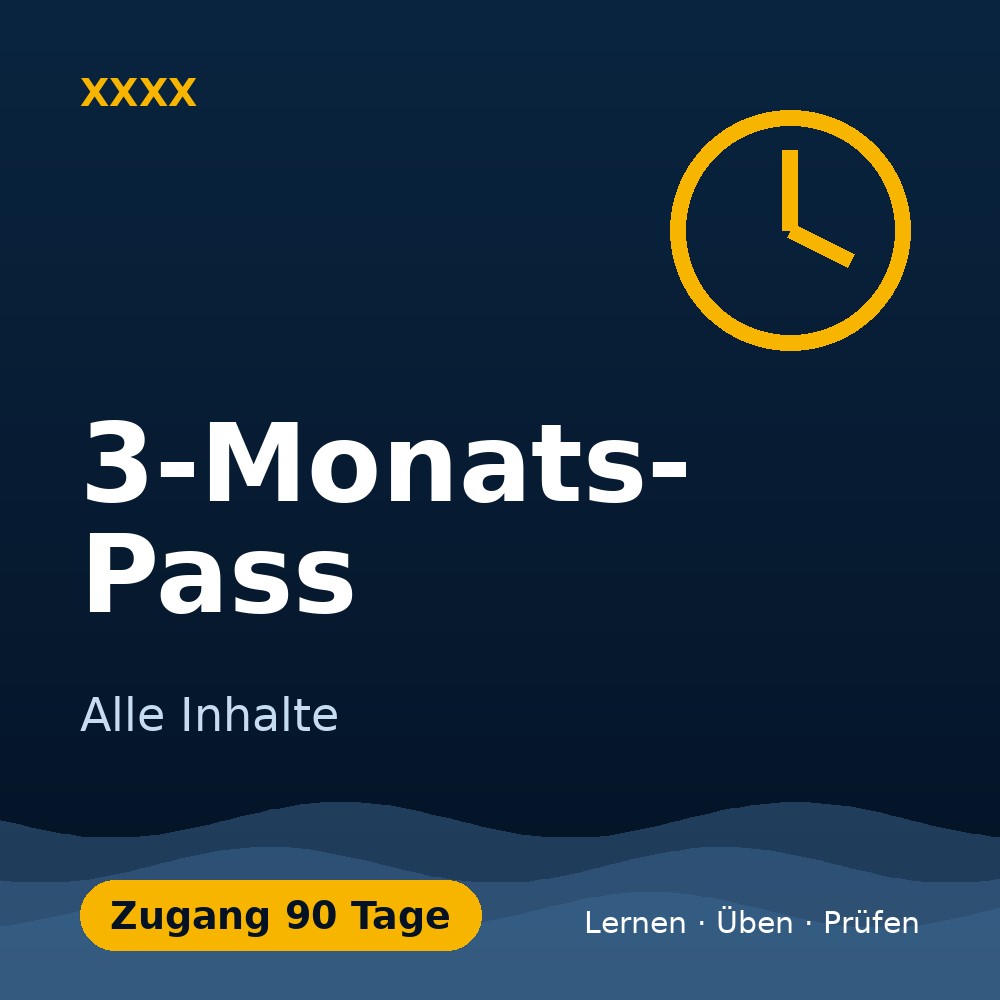
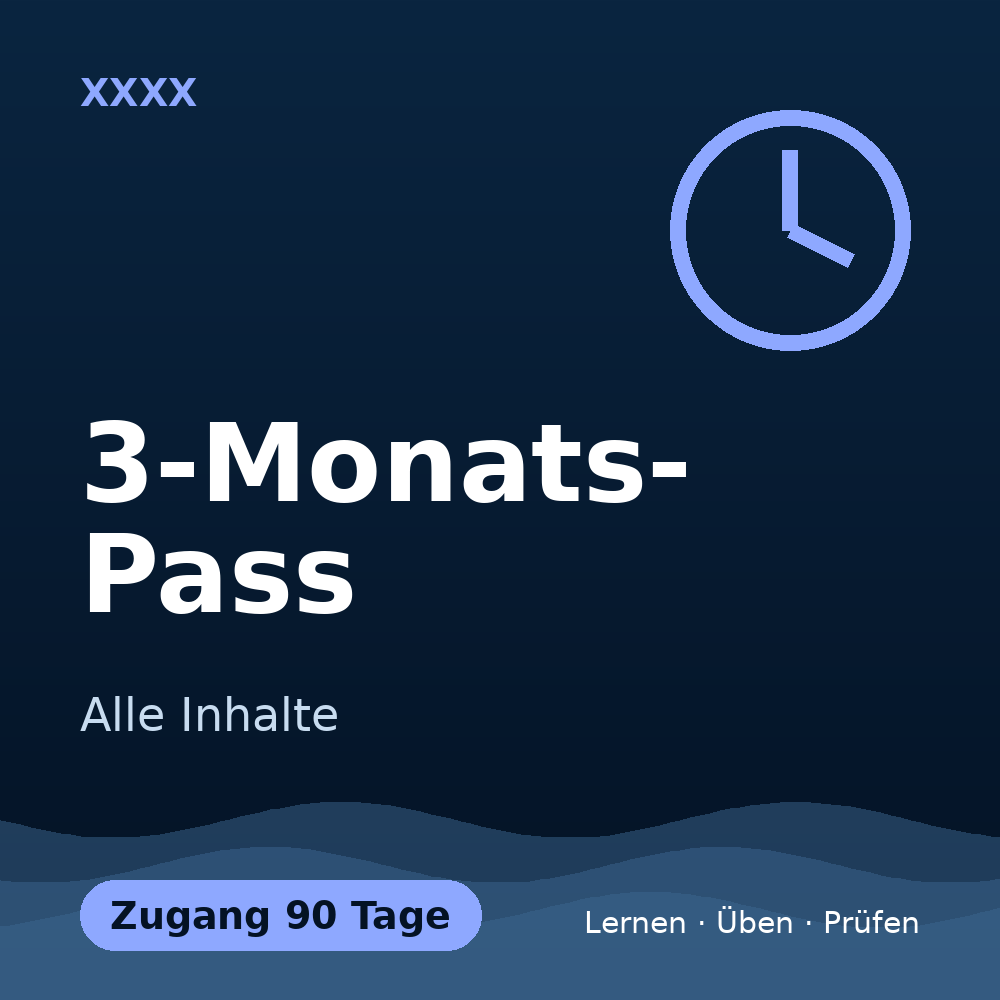
Produktbilder: restliches Gelb durch Periwinkle ersetzt
3-Monats-Pass, Simulator 3 Monate und Familien-Flotte (3 Bilder) neu erzeugt;
Gelb bleibt den Aktions-Buttons vorbehalten.

Claude-Session: https://claude.ai/code/session_01MqU1sfark58AxRAetH4u4K

diff --git a/tools/product-images/generate.py b/tools/product-images/generate.py
@@ -36,9 +36,9 @@ PRODUCTS = [
     ('BP-ADD-FKN-TO-SKN', 'FKN → SKN', 'Ergänzungskurs', '6 Monate', 'plus', (255, 140, 90)),
     ('BP-KAPITAEN', 'Kapitäns-\nBundle', 'SBF See + Binnen + Funk', '12 Monate', 'wheel', (142, 168, 255)),
     ('BP-PASS-1M', '1-Monats-\nPass', 'Alle Inhalte', '30 Tage', 'clock', (64, 196, 255)),
-    ('BP-PASS-3M', '3-Monats-\nPass', 'Alle Inhalte', '90 Tage', 'clock', (247, 181, 0)),
+    ('BP-PASS-3M', '3-Monats-\nPass', 'Alle Inhalte', '90 Tage', 'clock', (142, 168, 255)),
     ('SIM-PASS-14D', 'Funkgerät-\nSimulator', '14-Tage-Sprint · SRC/UBI', '14 Tage', 'radio', (255, 120, 90)),
-    ('SIM-PASS-3M', 'Funkgerät-\nSimulator', 'Standardzugang · SRC/UBI', '3 Monate', 'radio', (247, 181, 0)),
+    ('SIM-PASS-3M', 'Funkgerät-\nSimulator', 'Standardzugang · SRC/UBI', '3 Monate', 'radio', (142, 168, 255)),
     ('SIM-PASS-12M', 'Funkgerät-\nSimulator', 'Sorglos-Zugang · SRC/UBI', '12 Monate', 'radio', (102, 220, 160)),
     ('SIM-UPGRADE-CHECKOUT', 'Simulator-\nUpgrade', 'Zum Funkkurs dazu', '12 Monate', 'radio', (64, 196, 255)),
 ]
@@ -55,7 +55,7 @@ GROUPS = [
     ('GRP-CLUB-20', 'Vereins-\nPaket 20', 'SBF See', 20), ('GRP-CLUB-21', 'Vereins-\nPaket 20', 'SBF See & Binnen', 20),
     ('GRP-CLUB-50', 'Partner-\nFlat 50', 'SBF See & Binnen', 50),
 ]
-GROUP_ACCENT = {'PAIR': (255, 150, 170), 'FAM': (247, 181, 0), 'CREW': (64, 196, 255), 'CLUB': (102, 220, 160)}
+GROUP_ACCENT = {'PAIR': (255, 150, 170), 'FAM': (142, 168, 255), 'CREW': (64, 196, 255), 'CLUB': (102, 220, 160)}
 
 NAVY_TOP = (10, 37, 64)
 NAVY_BOTTOM = (4, 18, 36)
